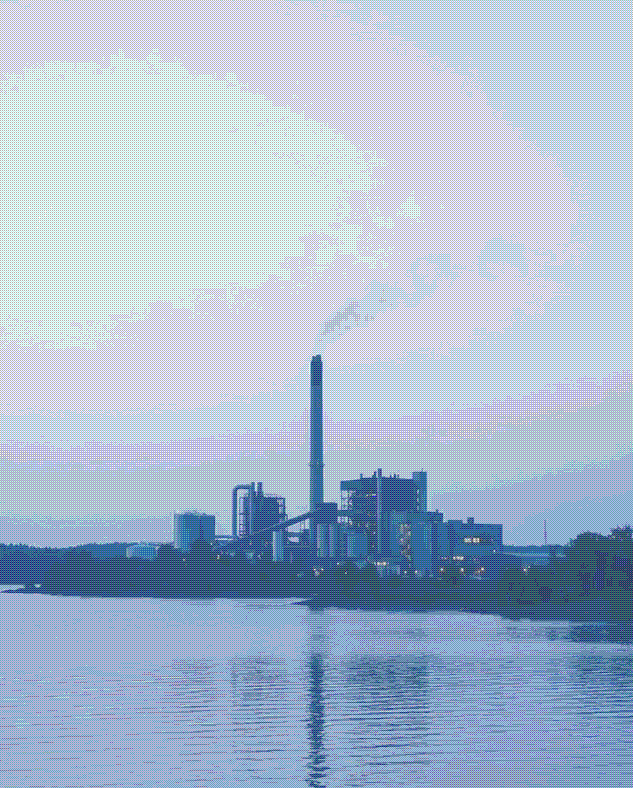
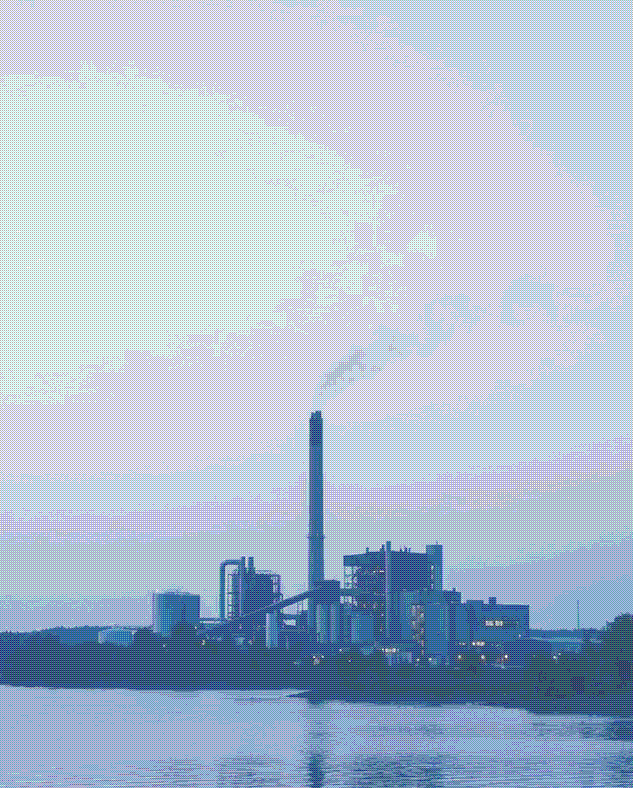
home: a tira com as fotos do Google Flow passa a ser a primeira secao (a anterior saiu); carbono recortado com a usina mais baixa (lago 15%)

diff --git a/index.html b/index.html
@@ -2446,7 +2446,6 @@ body>*{position:relative;z-index:1}
    igual ao painel. Sem WebGL a reserva continua com a demao, para o escrito se ler. */
 .sh-tira.gl-on .sh-col::before{display:none}
 /* 29/09: TESTE da tira com as fotos do Google Flow: fio separando da oficial, e as fotos NAO espelham (a ISO oficial espelha) */
-.sh-tira--flow{border-top:1px solid var(--fio)}
 /* 29/09: «titulos, subtitulos e numeros ligeiramente mais para baixo» (64 -> 92 px no alto do bloco) */
 .sh-tira--flow .sh-conteudo{padding-top:92px}
 /* 29/09: SOMBRA entre os cards, do lado esquerdo de cada um (modelo URS): cada coluna, a partir da
@@ -2577,76 +2576,10 @@ body>*{position:relative;z-index:1}
   <!-- ===== quatro colunas (a abertura do index.html, na lingua desta pagina) ===== -->
   <section class="qc-sec" id="quatro-colunas" aria-labelledby="qc-titulo-sec">
     
-    <div class="sh-tira">
-      <article class="sh-col sh-col--carbono">
-        <img class="sh-foto" src="img/energia-cor-bayer-qc.webp?v=28092026" data-lum="img/energia-cor-qc.webp?v=28092026" alt="" loading="eager" decoding="sync" fetchpriority="high">
-        <div class="sh-conteudo">
-          <div>
-            <span class="sh-indice">[ 01 ]</span>
-            <h3 class="sh-titulo">Gestão<br><strong>de Carbono</strong></h3>
-            <div class="sh-acento" aria-hidden="true"></div>
-            <div class="sh-rodape">Reduz as emissões da sua operação</div>
-            <ul class="sh-lista"><li><span>Inventário de GEE</span></li><li><span>Carbono neutro</span></li><li><span>Créditos de carbono</span></li></ul>
-          </div>
-          <span class="sh-vertical" aria-hidden="true">Emissões</span>
-          <div>
-            <a class="sh-cta js-scramble" href="gestao-carbono.html">Saiba mais</a>
-          </div>
-        </div>
-      </article>
-      <article class="sh-col sh-col--iso">
-        <img class="sh-foto" src="img/industria-cor-bayer-qc.webp?v=28092026" data-lum="img/industria-cor-qc.webp?v=28092026" alt="" loading="eager" decoding="sync" fetchpriority="high">
-        <div class="sh-conteudo">
-          <div>
-            <span class="sh-indice">[ 02 ]</span>
-            <h3 class="sh-titulo">ISO<br><strong>Certificação</strong></h3>
-            <div class="sh-acento" aria-hidden="true"></div>
-            <div class="sh-rodape">Busca certificação para a sua organização</div>
-            <ul class="sh-lista"><li><span>ISO 9001: gestão da qualidade</span></li><li><span>ISO 14001: ambiental</span></li><li><span>ISO 45001: saúde e segurança</span></li></ul>
-          </div>
-          <span class="sh-vertical" aria-hidden="true">Normas</span>
-          <div>
-            <a class="sh-cta js-scramble" href="implantacao-iso.html">Saiba mais</a>
-          </div>
-        </div>
-      </article>
-      <article class="sh-col sh-col--sedex">
-        <img class="sh-foto" src="img/etica-auditoria-cor-bayer-qc.webp?v=28092026" data-lum="img/etica-auditoria-cor-qc.webp?v=28092026" alt="" loading="eager" decoding="sync" fetchpriority="high">
-        <div class="sh-conteudo">
-          <div>
-            <span class="sh-indice">[ 03 ]</span>
-            <h3 class="sh-titulo">SEDEX<br><strong>SMETA</strong></h3>
-            <div class="sh-acento" aria-hidden="true"></div>
-            <div class="sh-rodape">Atende às exigências dos seus clientes</div>
-            <ul class="sh-lista"><li><span>Direitos trabalhistas</span></li><li><span>Saúde e segurança</span></li><li><span>Ética e meio ambiente</span></li></ul>
-          </div>
-          <span class="sh-vertical" aria-hidden="true">Ética</span>
-          <div>
-            <a class="sh-cta js-scramble" href="sedex-smeta.html">Saiba mais</a>
-          </div>
-        </div>
-      </article>
-      <article class="sh-col sh-col--esg">
-        <img class="sh-foto" src="img/lago-industria-cor-bayer-qc.webp?v=28092026" data-lum="img/lago-industria-cor-qc.webp?v=28092026" alt="" loading="eager" decoding="sync" fetchpriority="high">
-        <div class="sh-conteudo">
-          <div>
-            <span class="sh-indice">[ 04 ]</span>
-            <h3 class="sh-titulo">ESG<br><strong>Sustentabilidade</strong></h3>
-            <div class="sh-acento" aria-hidden="true"></div>
-            <div class="sh-rodape">Comprova a sua prática de sustentabilidade</div>
-            <ul class="sh-lista"><li><span>Padrões de mercado</span></li><li><span>Relato e indicadores</span></li><li><span>Cadeia de fornecedores</span></li></ul>
-          </div>
-          <span class="sh-vertical" aria-hidden="true">Padrões</span>
-          <div>
-            <a class="sh-cta js-scramble" href="esg.html">Saiba mais</a>
-          </div>
-        </div>
-      </article>
-    </div>
-    <!-- 29/09: TESTE, a tira com as fotos feitas no Google Flow, de volta ao FILTRO EM COR (a versao azul durou uma rodada; as -lum-fl/-bayer-fl ficam no disco). Apagar este bloco, o CSS .sh-tira--flow e a chamada «tira Flow» para desfazer. -->
+    <!-- 29/09: A TIRA DA HOME e esta, com as quatro fotos feitas no Google Flow, no filtro em cor. A anterior (energia, industria, etica-auditoria, lago-industria -cor-qc) saiu do HTML; os arquivos ficam em img/. -->
     <div class="sh-tira sh-tira--flow">
       <article class="sh-col sh-col--carbono">
-        <img class="sh-foto" src="img/flow-carbono-cor-bayer-fl.webp?v=29092026e" data-lum="img/flow-carbono-cor-fl.webp?v=29092026e" alt="" loading="lazy" decoding="async">
+        <img class="sh-foto" src="img/flow-carbono-cor-bayer-fl.webp?v=29092026f" data-lum="img/flow-carbono-cor-fl.webp?v=29092026f" alt="" loading="eager" decoding="sync" fetchpriority="high">
         <div class="sh-conteudo">
           <div>
             <span class="sh-indice">[ 01 ]</span>
@@ -2662,7 +2595,7 @@ body>*{position:relative;z-index:1}
         </div>
       </article>
       <article class="sh-col sh-col--iso">
-        <img class="sh-foto" src="img/flow-iso-cor-bayer-fl.webp?v=29092026b" data-lum="img/flow-iso-cor-fl.webp?v=29092026b" alt="" loading="lazy" decoding="async">
+        <img class="sh-foto" src="img/flow-iso-cor-bayer-fl.webp?v=29092026b" data-lum="img/flow-iso-cor-fl.webp?v=29092026b" alt="" loading="eager" decoding="sync" fetchpriority="high">
         <div class="sh-conteudo">
           <div>
             <span class="sh-indice">[ 02 ]</span>
@@ -2678,7 +2611,7 @@ body>*{position:relative;z-index:1}
         </div>
       </article>
       <article class="sh-col sh-col--sedex">
-        <img class="sh-foto" src="img/flow-smeta-cor-bayer-fl.webp?v=29092026b" data-lum="img/flow-smeta-cor-fl.webp?v=29092026b" alt="" loading="lazy" decoding="async">
+        <img class="sh-foto" src="img/flow-smeta-cor-bayer-fl.webp?v=29092026b" data-lum="img/flow-smeta-cor-fl.webp?v=29092026b" alt="" loading="eager" decoding="sync" fetchpriority="high">
         <div class="sh-conteudo">
           <div>
             <span class="sh-indice">[ 03 ]</span>
@@ -2694,7 +2627,7 @@ body>*{position:relative;z-index:1}
         </div>
       </article>
       <article class="sh-col sh-col--esg">
-        <img class="sh-foto" src="img/flow-esg-cor-bayer-fl.webp?v=29092026b" data-lum="img/flow-esg-cor-fl.webp?v=29092026b" alt="" loading="lazy" decoding="async">
+        <img class="sh-foto" src="img/flow-esg-cor-bayer-fl.webp?v=29092026b" data-lum="img/flow-esg-cor-fl.webp?v=29092026b" alt="" loading="eager" decoding="sync" fetchpriority="high">
         <div class="sh-conteudo">
           <div>
             <span class="sh-indice">[ 04 ]</span>
@@ -4054,25 +3987,7 @@ document.querySelectorAll('.rv').forEach(function(e){ io.observe(e); });
 (function(){
   var ditherVivo = window.ditherVivo; if(!ditherVivo) return;
 
-  /* ---------------- a tira: quatro colunas num canvas so ---------------- */
-  (function(){
-    var tira = document.querySelector('.sh-tira'); if(!tira) return;
-    var cols = [].slice.call(tira.querySelectorAll('.sh-col'));
-    var planos = cols.map(function(c){
-      var im = c.querySelector('img.sh-foto');
-      return {el:c, lum: im ? im.getAttribute('data-lum') : null,
-              ax: c.classList.contains('sh-col--carbono') ? 1 : .5, espelha: c.classList.contains('sh-col--iso')};
-    });
-    /* 28/09 (noite): FILTRO EM COR (ditherVivo.RECEITA_COR, no trama.js): a foto em cor
-       (-cor-qc) tramada canal a canal. Antes: o tingimento oficial azul, rampa
-       14304C 336699 D3E2F2 FAF9F5 com escuro 1,4, lavaRepouso .12 e as -lum-qc (que
-       ficam no disco; para voltar, trocar os src/data-lum e tirar o emCor). */
-    ditherVivo(ditherVivo.emCor({raiz:tira, planos:planos, classeCanvas:'sh-gl', revelar:'pronta',
-      cores:[[21.2,50.9,80.6],[24.2,56.2,88.1],[103.0,146.1,189.4],[250,249,245]],
-      zoomHover:1.035, lavaHover:.88, revelaNaTrilha:.6, pincel:1.05}));
-  })();
-
-  /* ---------------- 29/09: TESTE, tira Flow ---------------- */
+  /* ---------------- a tira da home (29/09: as fotos do Google Flow) ---------------- */
   (function(){
     var tira = document.querySelector('.sh-tira--flow'); if(!tira) return;
     /* 29/09: a entrada da esquerda para a direita (ver o CSS .anima/.entrou) */
